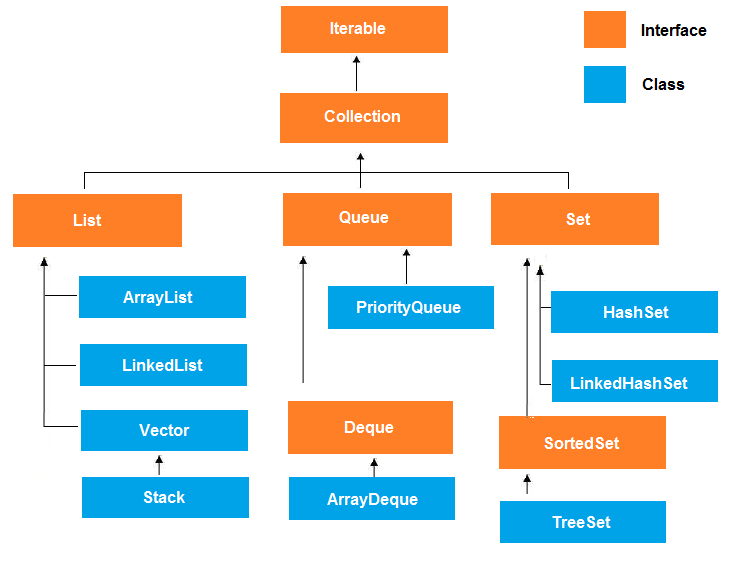
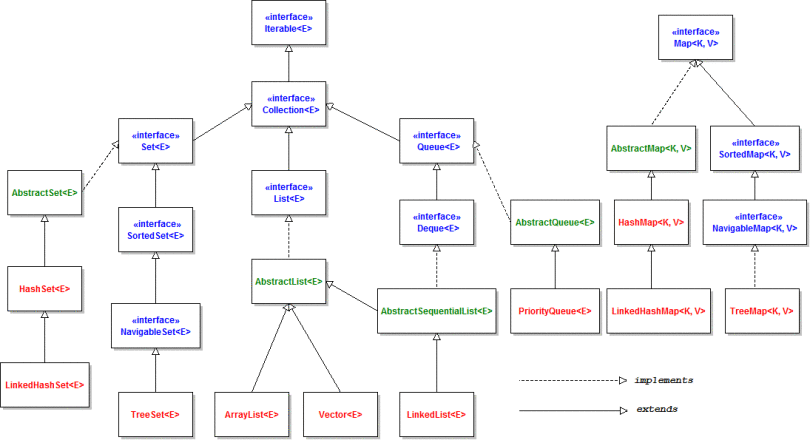
Collections intro and cleanup

diff --git a/collections/intro.md b/collections/intro.md
@@ -1,0 +1,142 @@
+# Структуры данных в Java
+
+## Введение
+
+Понимание структр данных, предоставляемых языком программирования, является основополагающим элементом программирования.
+Без осознания того, как хранить и манипулировать данными, а также насколько быстро эти манипуляции происходят невозможно представить себе программирование.
+
+Являясь `объектно-ориентированным` языком программирования, `Java` предоставляет обширный список структур данных, связанных в четкую иерархию с помощью `интерфейсов` и `классов`.
+
+Иерархия существующих структр данных в `Java` выглядит следующим образом:
+
+![](../images/collections.png)
+
+> `Зеленым` шрифтом выделены абстрактные классы.
+>
+> `Синим` шрифтом выделены интерфейсы.
+>
+> `Красным` шрифтом выделены конкретные реализации.
+
+Корнем в этой иерархии является интерфейс `java.lang.Iterable`.
+Суть интерфейса должна быть понятна из названия - он добавляет структуре данных возможность итерирования по структуре данных.
+
+Помимо этого этот интерфейс предоставляет возможность использования `for-each` цикла.
+
+Об этом интерфейсе поговорим подробнее чуть дальше.
+
+Следующим важным интерфейсом является `java.util.Collection`. 
+
+В `Java` все структуры данных, кроме хэш-таблиц(Map), реализуют этот интерфейс, поэтому далее можно называть их `коллекциями`.
+
+Интерфейс `java.util.Collection` предоставляет основные методы для работы с коллекциями.
+
+Выделяется три основынх вида коллекций: List(Список), Queue(Очередь) и Set(Множество).
+
+При этом хэш-таблицы или `Map` стоят несколько обособленно и не реализуют интерфейс `java.util.Collection`.
+
+---
+
+**Вопрос**:
+
+Почему хэш-таблицы не реализуют `java.util.Collection`? 
+
+С чем связана эта обособленность?
+
+**Ответ**:
+
+Эта обособленность скорее всего связана с логическим разделением.
+
+Когда мы говорим про коллекции, то имеется в виду одно множество объектов.
+
+В то время как хэш-таблицы - это два множества объектов, множество ключей
+и множество значений, где каждому ключу соответствует свое значение.
+
+Еще одним аргументом может служить то, что при включении хэш-таблиц в иерархию коллекий необходимо будет реализовать итерируемость, но итерироваться по хэш-таблицы можно как по ключам, так и по значениям, что вызывает дополнительную неопределенность.
+
+Скорее всего именно поэтому произошла такая обособленность.
+
+Хотя эти доводы кому-то могут показаться натянутыми, так как в некоторых языках, например, `Scala` хэш-таблицы итерируемы.
+
+---
+
+Уже сказано достаточно про `java.lang.Iterable` и пришла пора поговорить о нем подробнее.
+
+## java.lang.Iterable
+
+Как уже было сказано выше, `java.lang.Iterable` предоставляет нам итератор, для обхода коллекции.
+
+Благодаря этому коллекции можно использовать в `for-each` цикле.
+Приведенный пример будет на `java.lang.List`, но это не принципиально.
+
+```java
+public void printLines(List<String> lines) {
+    for(String line : lines) {
+        System.out.println(line);
+    }
+}
+```
+
+Основным методом интерфейса `java.lang.Iterable` является:
+
+```java
+Iterator<T> iterator();
+``` 
+
+// todo
+Что такое итератор можно прочитать здесь.
+
+
+## java.util.Collection
+
+Как уже было сказано выше, `java.util.Collection` предоставляет основные методы работы с коллекциями в `Java`.
+
+Взглянем на основные методы, которые есть у каждой коллекции:
+
+* `boolean add(element)`
+* `boolean remove(element)`
+* `int size()`
+* `boolean isEmpty()`
+* `boolean contains(element)`
+* `void clear()`
+
+Как можно видеть, все главные операции с любой структурой данных присутствуют.
+
+Разумеется, присутствуют методы, для добавления к коллекции не только одного элемента, а целого множества элементов, также как и удаления, также существует возможность удалять по некоторому предикату, но автор данного текста для краткости опустил их перечисление.
+
+> Предикат - это некоторое условие.
+
+Здесь все довольно обычно, кроме, возможно, `boolean add(element)`.
+
+Дело в том, что при добавлении элемента в коллекцию метод вернет `true`, если коллекция была изменена в результате добавления. Если же текущая реализация коллекции не может содержать дубликаты и уже содержит добавляемый элемент будет возвращено значение `false`.
+
+Еще одним интересным моментом является то, что интерфейс `java.util.Collection` **не предоставляет** метода, который достает элемент из коллекции.
+
+Т.е интерфейс `java.util.Collection` предоставляет возможность только добавлять и удалять значения из коллекции, но не извлекать.
+
+---
+
+**Вопрос**:
+
+Почему же  `java.util.Collection` не предоставляет методов для извлечения элемента из коллекции? 
+
+**Ответ**:
+
+Извлечение элемента является довольно специфичным поведением для каждой реализации.
+Например, не все реализации `java.util.Set` упорядочены, отсюда извлечение элемента по индексу является не выполнимым.
+
+Так как множество исключает содержание дубликатов, то возможность извлечения по элементу также выглядит спорным моментом.
+
+Ведь, если существует некоторое множество и вы хотите вызвать `get(element)`, то достаточно сделать `contains(element)`. Если элемент есть в множестве, то нет смысла его извлекать - он уже есть у нас.
+
+Стоит отметить, что методы извлечения элемента из коллекции добавляются в интерфейсах `java.util.List` и `java.util.Queue`.
+
+---
+
+Наследниками поведения `java.util.Collection` являются:
+
+* [java.util.List](./list/intro.md)
+* [java.util.Set](./set/intro.md)
+* [java.util.Queue](./queue/intro.md)
+
+Подробнее о [java.util.Map](./map/intro.md).
+

diff --git a/collections/list/intro.md b/collections/list/intro.md
@@ -1,7 +1,10 @@
-## Collection: List
-### List interface
-`List` расширяет Collection, добавляя туда новые методы. Это один из трех основных
-интерфейсов, которые реализуют классы-коллекции.
+# Интерфейс java.util.List
+
+## Введение
+
+Как уже было сказано во [введении](../intro.md), интерфес `java.util.List` расширяет `java.util.Collection`, добавляя туда новые методы. 
+
+Это один из трех основных интерфейсов, которые реализуют классы-коллекции.
 
 Почему же сделали три интерфейса, а не один?
 Потому что `List` - это упорядоченная структура данных, разрешающая дубликаты,

diff --git a/collections/queue/intro.md b/collections/queue/intro.md
@@ -1,0 +1,5 @@
+# Интерфейс java.util.Queue
+
+## Введение
+
+// todo

diff --git a/collections/set/intro.md b/collections/set/intro.md
@@ -1,0 +1,5 @@
+# Интерфейс java.util.Set
+
+## Введение
+
+// todo
